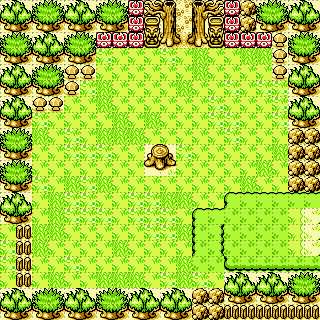
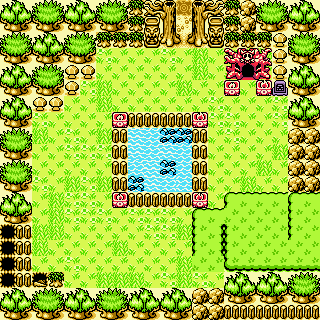
ajout du déplacement par vecteur

diff --git a/cfiles/init_map.c b/cfiles/init_map.c
@@ -5,38 +5,39 @@
 
 void init_collisions(Map *map, Game *g) {
 
-    int quadmapValues[20][20] = {
-            {126, 127, 200, 201, 126, 127, 200, 201, 120, 18, 19, 20, 21, 22, 120, 268, 200, 201, 126, 127},
-            {164, 165, 238, 239, 164, 165, 238, 239, 120, 60, 57, 58, 59, 60, 120, 268, 238, 239, 164, 165},
-            {200, 201, 126, 127, 200, 201, 121, 121, 120, 98, 95, 96, 97, 98, 120, 121, 121, 351, 200, 201},
-            {238, 239, 164, 165, 238, 239, 0, 0, 0, 0, 0, 0, 0, 0, 0, 0, 0, 351, 238, 239},
-            {126, 127, 200, 201, 351, 351, 0, 0, 0, 0, 0, 0, 0, 0, 0, 0, 0, 351, 126, 127},
-            {164, 165, 238, 239, 351, 0, 0, 0, 0, 0, 0, 0, 0, 0, 0, 0, 0, 0, 164, 165},
-            {126, 127, 351, 351, 0, 0, 0, 0, 0, 0, 0, 0, 0, 0, 0, 0, 0, 0, 126, 127},
-            {164, 165, 0, 0, 0, 0, 0, 0, 0, 0, 0, 0, 0, 0, 0, 0, 0, 0, 164, 165},
-            {200, 201, 0, 0, 0, 0, 0, 0, 0, 0, 0, 0, 0, 0, 0, 0, 0, 0, 268, 268},
-            {238, 239, 0, 0, 0, 0, 0, 0, 0, 236, 237, 0, 0, 0, 0, 0, 0, 0, 268, 268},
-            {200, 201, 0, 0, 0, 0, 0, 0, 0, 274, 275, 0, 0, 0, 0, 0, 0, 0, 268, 268},
-            {238, 239, 0, 0, 0, 0, 0, 0, 0, 0, 0, 0, 0, 0, 0, 0, 0, 0, 268, 268},
-            {126, 127, 0, 0, 0, 0, 0, 0, 0, 0, 0, 0, 0, 0, 0, 0, 0, 0, 0, 309},
-            {164, 165, 0, 0, 0, 0, 0, 0, 0, 0, 0, 0, 0, 0, 0, 0, 0, 0, 154, 155},
-            {0, 230, 0, 0, 0, 0, 0, 0, 0, 0, 0, 0, 0, 0, 0, 0, 0, 0, 154, 155},
-            {0, 230, 0, 0, 0, 0, 0, 0, 0, 0, 0, 0, 0, 0, 0, 0, 0, 0, 154, 155},
-            {0, 230, 0, 0, 0, 0, 0, 0, 0, 0, 0, 0, 0, 0, 0, 0, 0, 0, 0, 348},
-            {0, 230, 0, 0, 0, 0, 0, 0, 0, 0, 0, 0, 0, 0, 126, 127, 126, 127, 200, 201},
-            {126, 127, 200, 201, 126, 127, 200, 201, 126, 127, 126, 127, 268, 268, 164, 165, 164, 165, 238, 239},
-            {164, 165, 238, 239, 164, 165, 238, 239, 164, 165, 164, 165, 268, 268, 230, 230, 230, 230, 230, 230}
-            };
+    Uint16 quadmapValues[20][20] = {
+            {305, 306, 306, 306, 306, 306, 306, 306, 306, 306, 306, 306, 306, 306, 306, 291, 0, 0, 289, 307},
+            {321, 420, 421, 421, 421, 422, 342, 302, 0, 326, 326, 0, 326, 0, 326, 326, 0, 0, 326, 323},
+            {321, 436, 429, 430, 431, 438, 342, 0, 0, 0, 0, 0, 0, 0, 0, 0, 0, 0, 342, 323},
+            {321, 448, 432, 448, 432, 448, 342, 0, 0, 0, 0, 0, 0, 0, 0, 0, 0, 0, 0, 323},
+            {321, 0, 0, 0, 0, 0, 0, 0, 0, 0, 0, 0, 0, 0, 0, 0, 0, 0, 0, 323},
+            {321, 0, 0, 0, 0, 0, 0, 0, 0, 0, 0, 0, 0, 0, 0, 0, 0, 0, 0, 323},
+            {321, 342, 0, 0, 0, 0, 0, 0, 0, 0, 0, 342, 0, 0, 0, 0, 0, 0, 342, 323},
+            {321, 0, 0, 0, 0, 0, 0, 305, 306, 306, 306, 306, 307, 0, 0, 0, 0, 0, 326, 323},
+            {321, 0, 0, 0, 0, 0, 0, 321, 303, 304, 303, 304, 323, 0, 0, 0, 0, 0, 0, 323},
+            {321, 342, 0, 0, 0, 0, 0, 321, 319, 320, 319, 320, 323, 0, 0, 0, 0, 0, 0, 323},
+            {321, 342, 0, 0, 0, 0, 0, 321, 303, 304, 303, 304, 323, 0, 0, 0, 0, 0, 326, 323},
+            {321, 0, 0, 0, 0, 0, 0, 321, 319, 320, 319, 320, 323, 0, 0, 0, 0, 0, 342, 323},
+            {321, 0, 0, 0, 0, 0, 0, 337, 338, 338, 338, 338, 339, 0, 0, 0, 0, 0, 326, 323},
+            {321, 326, 0, 0, 0, 0, 0, 342, 0, 0, 0, 342, 326, 0, 0, 0, 0, 0, 0, 323},
+            {321, 326, 0, 0, 0, 0, 0, 0, 0, 0, 0, 0, 0, 0, 0, 0, 0, 0, 326, 323},
+            {321, 0, 0, 0, 0, 0, 0, 0, 0, 0, 0, 0, 0, 0, 0, 0, 0, 0, 0, 323},
+            {321, 0, 0, 0, 0, 0, 0, 0, 0, 0, 0, 0, 0, 0, 0, 0, 0, 0, 342, 323},
+            {321, 0, 0, 0, 0, 0, 0, 0, 0, 0, 0, 0, 0, 0, 0, 0, 0, 342, 0, 323},
+            {321, 301, 342, 318, 0, 0, 0, 342, 342, 0, 0, 0, 0, 0, 0, 326, 326, 0, 0, 323},
+            {337, 338, 338, 338, 338, 338, 338, 338, 338, 338, 338, 338, 338, 338, 338, 338, 338, 338, 338, 339}};
 
-        int quadmapDivided[NBTILES][NBTILES];
+            
+
+        Uint16 quadmapDivided[NBTILES][NBTILES];
 
             for (int i = 0; i < 20; i++) {
                 for (int j = 0; j < 20; j++) {
                     int value = quadmapValues[i][j];
                     
-                    for (int x = 0; x < 3; x++) {
-                        for (int y = 0; y < 3; y++) {
-                            quadmapDivided[i * 3 + y][j * 3 + x] = value;
+                    for (int x = 0; x < NBMAPCUTS; x++) {
+                        for (int y = 0; y < NBMAPCUTS; y++) {
+                            quadmapDivided[i * NBMAPCUTS + y][j * NBMAPCUTS + x] = value;
                         }
                     }
                 }

diff --git a/cfiles/perso.c b/cfiles/perso.c
@@ -1,10 +1,11 @@
 #include <SDL.h>
 #include "../headers/perso.h"
 #include "../headers/structs.h"
+#include "../headers/move.h"
 
-void get_position_perso(Perso *p, Map *m, char *direction) {
+void get_position_perso(Perso *p, Map *m, Game *g, char *direction) {
 
-  get_collision(p, m, direction);
+  get_collision(p, m, g, direction);
 
   p->positionX = (p->rect.x)/TILESIZE;
   p->positionY = (p->rect.y)/TILESIZE;
@@ -12,7 +13,7 @@ void get_position_perso(Perso *p, Map *m, char *direction) {
 }
 
 
-void get_collision(Perso *p, Map *m, char *direction) {
+void get_collision(Perso *p, Map *m, Game *g, char *direction) {
 
   // Y = ABSCISSE / X = ORDONNEE
 
@@ -20,33 +21,31 @@ void get_collision(Perso *p, Map *m, char *direction) {
           // on regarde le point au milieu à gauche du personnage par rapport au mur
           if(m->quadmap[p->positionY + (p->rect.h/TILESIZE)/2][p->positionX - 1] == 0) {
 
-          p->rect.x -= p->speed;
-
+            fluid_move(p, m, g, (p->positionX - 1), (p->positionY), "left"); // on envoie les targets a fluid_move pour découper le mouvement
           }
     }
       
-    if(strstr(direction, "right")) {
+    else if(strstr(direction, "right")) {
       // on regarde le point au milieu à droite du personnage par rapport au mur
-        if(m->quadmap[p->positionY + (p->rect.h/TILESIZE)/2][(p->positionX + (p->rect.w/TILESIZE))] != 0) {
+        if(m->quadmap[p->positionY + (p->rect.h/TILESIZE)/2][(p->positionX + (p->rect.w/TILESIZE))] == 0) {
 
-          p->rect.x += p->speed;
-
+          fluid_move(p, m, g, (p->positionX + 1), (p->positionY), "right");
         }
     }
 
-    if(strstr(direction, "up")) {
+    else if(strstr(direction, "up")) {
       // on regarde le point en haut à gauche du personnage par rapport au mur
-        if(m->quadmap[p->positionY - 1][p->positionX + (p->rect.w/TILESIZE)/2] != 0) {
+        if(m->quadmap[p->positionY - 1][p->positionX + (p->rect.w/TILESIZE)/2] == 0) {
 
-          p->rect.y -= p->speed;
+          fluid_move(p, m, g, p->positionX, (p->positionY - 1), "up");
         } 
     }
 
-    if(strstr(direction, "down")) {
+    else if(strstr(direction, "down")) {
         // on regarde le point au milieu bas du personnage par rapport au mur 
-        if(m->quadmap[(p->positionY + (p->rect.h/TILESIZE))][p->positionX + (p->rect.w/TILESIZE)/2] != 0) {
+        if(m->quadmap[(p->positionY + (p->rect.h/TILESIZE))][p->positionX + (p->rect.w/TILESIZE)/2] == 0) {
 
-          p->rect.y += p->speed;
+          fluid_move(p, m, g, p->positionX, (p->positionY + 1), "down");
         }
 
     }

diff --git a/cfiles/move.c b/cfiles/move.c
@@ -9,13 +9,13 @@
 void move(char *direction, Game *g, Perso *p, Map *m) {
 
 
-    if(strstr(direction, "left")) get_position_perso(p, m, "left");
-    if(strstr(direction, "right")) get_position_perso(p, m, "right");
-    if(strstr(direction, "up")) get_position_perso(p, m, "up");
-    if(strstr(direction, "down")) get_position_perso(p, m, "down");
+    if(strstr(direction, "left")) get_position_perso(p, m, g, "left");
+    if(strstr(direction, "right")) get_position_perso(p, m, g, "right");
+    if(strstr(direction, "up")) get_position_perso(p, m, g, "up");
+    if(strstr(direction, "down")) get_position_perso(p, m, g, "down");
     
         actualize_perso_movement(direction, g, p, m); // affiche de nouveau la map puis le personnage
-        
+        p->animation_index+=1;
         if(p->animation_index >= 4) p->animation_index = 0;
 
 }
@@ -28,6 +28,29 @@ void actualize_perso_movement(char *direction, Game *g, Perso *p, Map *m) {
         SDL_RenderClear(g->renderer);
         print_map(g, m);
         SDL_RenderCopy(g->renderer, animation_perso(p, direction), NULL, &(p->rect)); /// animation_perso() retourne la texture correspondante à l'étape de l'animation en cours
-        p->animation_index+=1;
         SDL_RenderPresent(g->renderer);
+}
+
+
+void fluid_move(Perso *p, Map *m, Game *g, Uint16 targetX, Uint16 targetY, char *direction) { // mouvement avec vecteur
+
+    int currentX = p->rect.x;
+    int currentY = p->rect.y;
+    int deltaX = (targetX*TILESIZE) - currentX;
+    int deltaY = (targetY*TILESIZE) - currentY;
+    int totalDistance = abs(deltaX) + abs(deltaY);
+    int stepX = deltaX / (totalDistance / 2); // Division en étapes de 4 pixels
+    int stepY = deltaY / (totalDistance / 2); // Division en étapes de 4 pixels
+
+    while (currentX != (targetX*TILESIZE) || currentY != (targetY*TILESIZE)) {
+        // mise à jour des coordonnées 
+        currentX += stepX;
+        currentY += stepY;
+        
+        p->rect.x = currentX;
+        p->rect.y = currentY;
+        
+        SDL_Delay(10); 
+        actualize_perso_movement(direction, g, p, m);
+    }
 }

diff --git a/cfiles/loop.c b/cfiles/loop.c
@@ -15,22 +15,16 @@ void launch_loop(Game *g, Perso *p, Map *m) {
     SDL_bool keyRight = SDL_FALSE;
     SDL_bool keyDown = SDL_FALSE;
     SDL_bool keyUp = SDL_FALSE;
-    int lastAnimTime = 0;
-    int delay_between_animations = DELAY_BETWEEN_ANIMATIONS;
+    Uint16 lastAnimTime = 0;
+    Uint8 delay_between_animations = DELAY_BETWEEN_ANIMATIONS;
     char *lastmove;
 
 
-    p->currentSprite = "../img/link/linkRight1.png";
-    p->animation_index = 0;
-
-    print_image(g, m->currentMapPath, &(m->rect));
-    print_image(g, p->currentSprite, &(p->rect));
 
     init_collisions(m, g); // initialise les collisions de la map
-
+    print_map(g, m); // affichage map
+    print_image(g, p->currentSprite, &(p->rect));  // affichage perso
     SDL_RenderPresent(g->renderer);
-
-
 
     while(program_launched) {
 
@@ -120,7 +114,7 @@ void launch_loop(Game *g, Perso *p, Map *m) {
                 default:
                 break;
             } // fin switch event.type  
-        } // fin while SDL_PollEvent 
+        } // fin while SDL_PollEvent    
     } //fin de program_launched
 
 }

diff --git a/cfiles/main.c b/cfiles/main.c
@@ -1,6 +1,7 @@
 // gcc -c *.c  $(sdl2-config --cflags --libs) -lSDL2_image
 // gcc -o main *.o $(sdl2-config --cflags --libs) -lSDL2_image
 //https://convert-my-image.com/ImageConverter_Fr
+//https://www.spriters-resource.com/fullview/109034/
 
 #include <stdlib.h>
 #include <stdio.h>
@@ -27,9 +28,10 @@ Perso perso;
     perso.xmap = 0; // coordonnees map x
     perso.ymap = 0; // coordonnees map y
     perso.speed = PERSO_SPEED;
+    perso.currentSprite = "../img/link/linkRight1.png";
+    perso.animation_index = 0;
 
 Perso *pperso = &perso; 
-init_perso_sprites(pperso);
 init_perso_animations(pperso); 
 
 
@@ -37,7 +39,7 @@ Map map;
 
     map.x = 0;
     map.y = 0;
-    map.currentMapPath = "../img/mapsZelda/map00.png";
+    map.currentMapPath = "../img/mapsZelda/map01.png";
     map.rect.h = SCREEN_H;
     map.rect.w = SCREEN_W;
     map.rect.x = 0;

diff --git a/cfiles/init.c b/cfiles/init.c
@@ -11,7 +11,7 @@ void sdl_init(Game *g) {
             exit(1);
         }
 
-    g->window = SDL_CreateWindow("Zelda", SDL_WINDOWPOS_CENTERED, SDL_WINDOWPOS_CENTERED, SCREEN_W, SCREEN_H, SDL_WINDOW_SHOWN);
+    g->window = SDL_CreateWindow("Zelda", SDL_WINDOWPOS_CENTERED, SDL_WINDOWPOS_CENTERED, SCREEN_W, SCREEN_W, SDL_WINDOW_SHOWN);
     if(g->window == NULL) {
         printf("erreur de creation de la fenetre : %s\n", SDL_GetError());
         exit(1);
@@ -22,6 +22,9 @@ void sdl_init(Game *g) {
         printf("erreur de creation du rendu : %s\n", SDL_GetError());
         exit(1);
     }   
+
+    g->buffer_draw = SDL_CreateTexture(g->renderer, SDL_PIXELFORMAT_RGBA8888, SDL_TEXTUREACCESS_TARGET, SCREEN_W, SCREEN_W);
+    g->buffer_print = SDL_CreateTexture(g->renderer, SDL_PIXELFORMAT_RGBA8888, SDL_TEXTUREACCESS_TARGET, SCREEN_W, SCREEN_W);
 
 }
 

diff --git a/cfiles/animation.c b/cfiles/animation.c
@@ -28,7 +28,7 @@ SDL_Texture *animation_perso(Perso *p, char *direction) {
         }
 
     }
-    if(strstr(direction, "right")) {
+    else if(strstr(direction, "right")) {
 
         switch(p->animation_index) {
 
@@ -49,7 +49,7 @@ SDL_Texture *animation_perso(Perso *p, char *direction) {
         }
         
     }
-    if(strstr(direction, "up")) {
+    else if(strstr(direction, "up")) {
 
         switch(p->animation_index) {
 
@@ -70,7 +70,7 @@ SDL_Texture *animation_perso(Perso *p, char *direction) {
         }
         
     }
-    if(strstr(direction, "down")) {
+    else if(strstr(direction, "down")) {
 
         switch(p->animation_index) {
 

diff --git a/headers/structs.h b/headers/structs.h
@@ -6,6 +6,8 @@
 typedef struct Game {
     SDL_Window *window;
     SDL_Renderer *renderer;  
+    SDL_Texture *buffer_draw;
+    SDL_Texture *buffer_print;
 
 } Game; 
 
@@ -16,7 +18,6 @@ typedef struct Perso {
     char *name; 
     int lifepoints;
     int speed; 
-    char *sprites[NB_PERSO_ANIMATIONS];
     char *animations[4][4];
     SDL_Texture *animations_textures[4][4];
     int animation_index;
@@ -35,8 +36,7 @@ typedef struct Map {
     char *currentMapPath; 
     int x;
     int y;
-    SDL_Rect parts[NBTILES][NBTILES];
-    int quadmap[60][60];
+    Uint16 quadmap[NBTILES][NBTILES];
 
 } Map; 
 

diff --git a/headers/defines.h b/headers/defines.h
@@ -5,10 +5,11 @@
 #define SCREEN_W 720
 #define PERSO_SPEED 12 // deplacement en pixels du perso
 #define NB_PERSO_ANIMATIONS 4 // nb d'animations differentes du personnage
-#define DELAY_BETWEEN_ANIMATIONS 40 // en ms
+#define DELAY_BETWEEN_ANIMATIONS 30 // en ms
 #define NBMAPSX 2
 #define NBMAPSY 1
 #define NBTILES 60 // nombre de tuiles pour diviser la map
-#define TILESIZE 12
+#define NBMAPCUTS 3 // nombre de découpes de la map (pour les collisions) -> nbtiles  / 20
+#define TILESIZE 12 // taille d'une tuile
 
 #endif

diff --git a/cfiles/init_sprites.c b/cfiles/init_sprites.c
@@ -5,15 +5,6 @@
 #include "../headers/structs.h"
 
 
-void init_perso_sprites(Perso *p) {
-
-    p->sprites[0] = "../img/perso/tileLeft1.png";
-    p->sprites[1] = "../img/perso/tileRight1.png";
-    p->sprites[2] = "../img/perso/tileBack1.png";
-    p->sprites[3] = "../img/perso/tileFront1.png";
-}
-
-
 void init_perso_animations(Perso *p) {
 
     p->animations[0][0] = "../img/link/linkLeft1.png";

diff --git a/headers/perso.h b/headers/perso.h
@@ -3,7 +3,7 @@
 #include <SDL.h>
 #include "structs.h"
 
-void get_position_perso(Perso *p, Map *m, char *direction);
-void get_collision(Perso *p, Map *m, char *direction);
+void get_position_perso(Perso *p, Map *m, Game *g, char *direction);
+void get_collision(Perso *p, Map *m, Game *g, char *direction);
 
 #endif

diff --git a/headers/move.h b/headers/move.h
@@ -5,5 +5,7 @@
 
 void move(char *direction, Game *g, Perso *p, Map *m);
 void actualize_perso_movement(char *direction, Game *g, Perso *p, Map *m);
+void fluid_move(Perso *p, Map *m, Game *g, Uint16 targetX, Uint16 targetY, char *direction);
+
 
 #endif 
